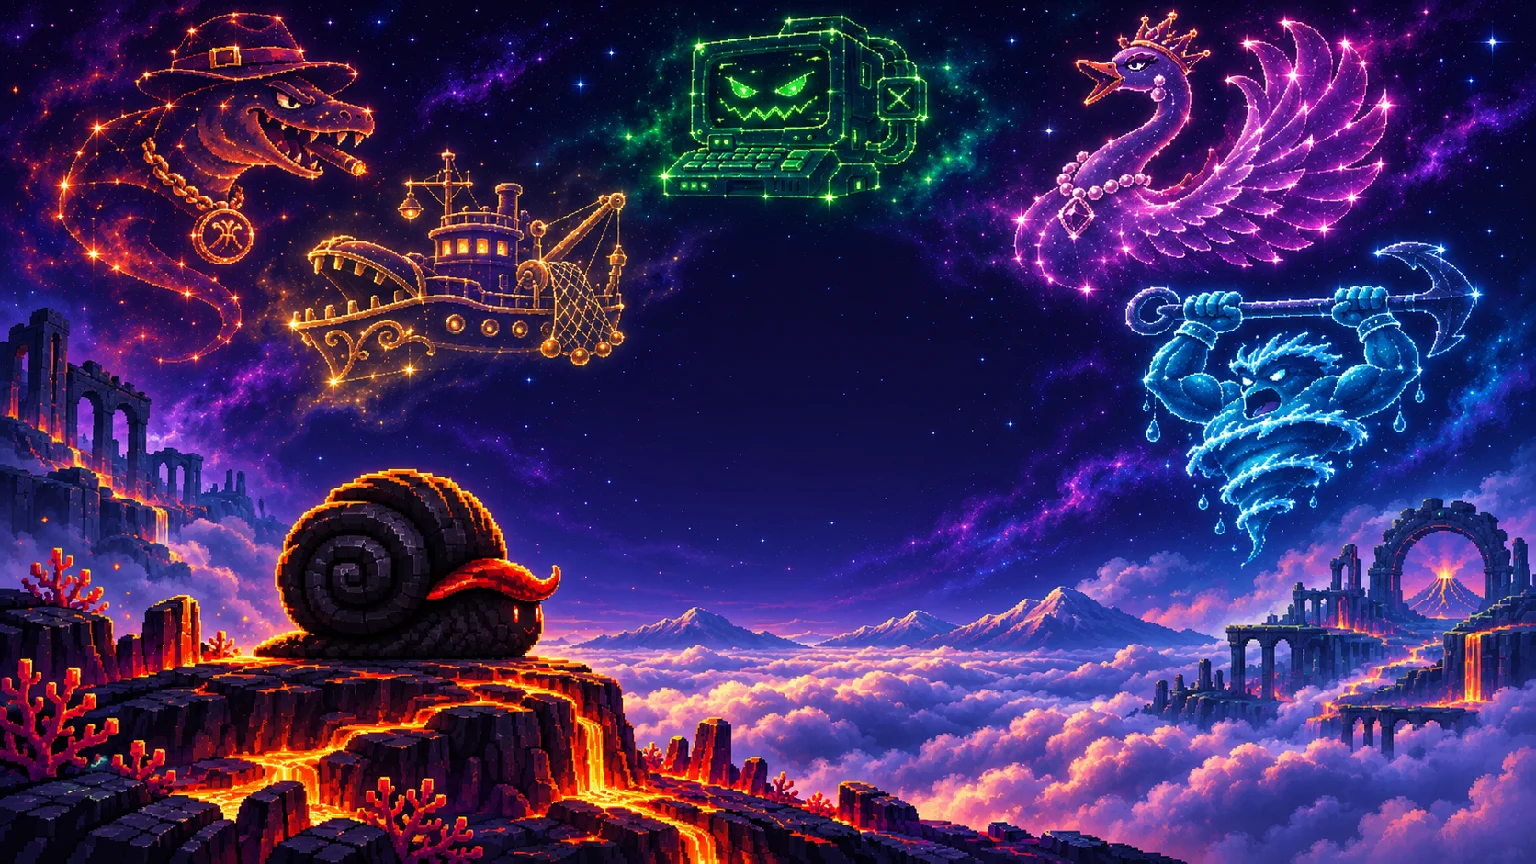
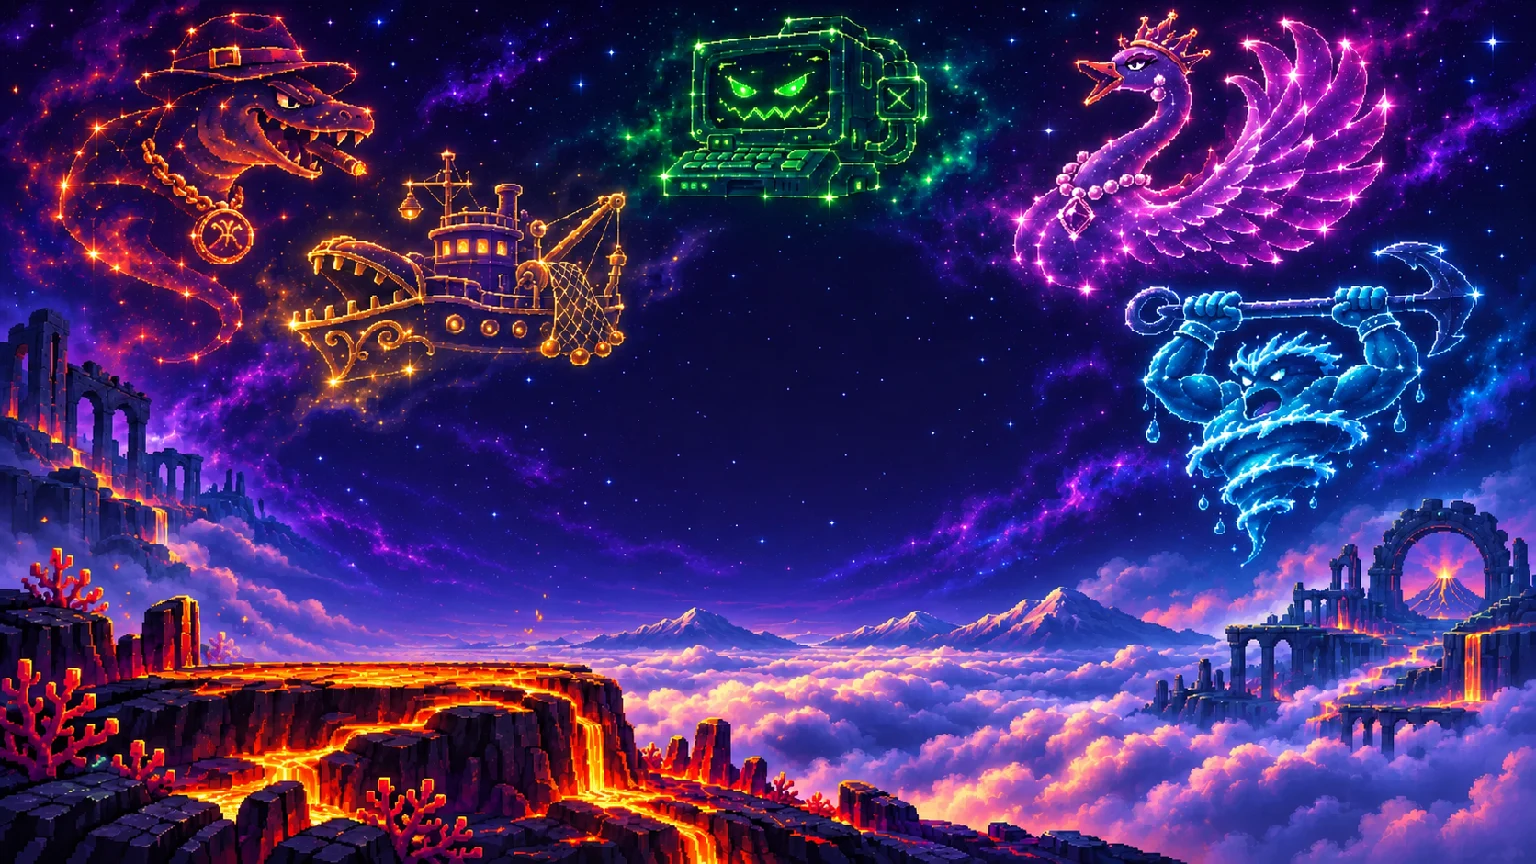
Gate title audio behind launch and use the original character sprite

diff --git a/v7-prototype/styles.css b/v7-prototype/styles.css
@@ -22,6 +22,23 @@ button:disabled { cursor: default; }
 button:focus-visible, input:focus-visible, [tabindex]:focus-visible { outline: 2px solid var(--gold); outline-offset: 3px; }
 .hidden { display: none !important; }
 .app { width: min(1160px, calc(100% - 36px)); margin: 0 auto; }
+.launch-screen {
+  position: fixed;
+  z-index: 4;
+  inset: 0;
+  width: 100%;
+  height: 100%;
+  display: grid;
+  place-items: center;
+  border: 0;
+  padding: 0;
+  background: #000;
+  color: #fff;
+  font: 900 clamp(48px, 15vw, 176px)/1 ui-monospace, monospace;
+  letter-spacing: .12em;
+  text-indent: .12em;
+  outline-offset: -8px;
+}
 .title-screen {
   --title-flight: 8s;
   position: fixed;
@@ -41,11 +58,22 @@ button:focus-visible, input:focus-visible, [tabindex]:focus-visible { outline: 2
   width: 100%;
   height: 100%;
 }
-.title-backdrop {
+.title-scene {
+  position: absolute;
   z-index: -2;
-  object-fit: contain;
-  object-position: center;
-  image-rendering: pixelated;
+  left: 50%;
+  top: 50%;
+  width: min(100vw, 177.778dvh);
+  aspect-ratio: 16 / 9;
+  transform: translate(-50%, -50%);
+}
+.title-backdrop, .title-character { image-rendering: pixelated; }
+.title-character {
+  position: absolute;
+  left: 16.6%;
+  top: 51.2%;
+  width: 20%;
+  height: auto;
 }
 .title-screen::after {
   z-index: -1;
@@ -115,11 +143,8 @@ button:focus-visible, input:focus-visible, [tabindex]:focus-visible { outline: 2
   to { opacity: 1; visibility: visible; }
 }
 @media (max-aspect-ratio: 4/3) {
-  .title-backdrop {
+  .title-scene {
     top: 51%;
-    bottom: auto;
-    height: auto;
-    transform: translateY(-50%);
     mask-image: linear-gradient(180deg, transparent, #000 9%, #000 92%, transparent);
   }
   .title-lockup { margin: 20dvh 0 0; width: min(93vw, 1000px); }

diff --git a/v7-prototype/js/main.js b/v7-prototype/js/main.js
@@ -2,8 +2,7 @@
   'use strict';
   const V = window.VS7;
   const ui = V.ui;
-  const state = V.state = { mode: 'title', level: null, section: null, story: null, testMode: false };
-  V.audio.startMenu();
+  const state = V.state = { mode: 'launch', level: null, section: null, story: null, testMode: false };
   const step = V.rules.step;
   const updates = { travel: V.updateRunner, arcade: V.updateRunner, arena: V.updateArena, boss: V.updateCombat };
   const get = id => document.getElementById(id);
@@ -229,6 +228,15 @@
     if (!get('leaderboard-overlay').classList.contains('hidden')) ui.dialog(null);
     else if (state.mode === 'play' || state.mode === 'boss-intro' || state.mode === 'result' || state.mode === 'outro') showMap();
   };
+  get('launch-screen').addEventListener('click', event => {
+    if (state.mode !== 'launch') return;
+    state.mode = 'title';
+    V.audio.startMenu();
+    event.currentTarget.classList.add('hidden');
+    const title = get('title-screen');
+    title.classList.remove('hidden');
+    title.focus({ preventScroll: true });
+  });
   get('title-screen').addEventListener('click', event => {
     if (state.mode !== 'title') return;
     V.audio.startMenu();

diff --git a/v7-prototype/index.html b/v7-prototype/index.html
@@ -9,8 +9,12 @@
 </head>
 <body>
   <main class="app">
-    <section id="title-screen" class="title-screen" aria-labelledby="title-logo">
-      <img class="title-backdrop" src="assets/images/intro/constellations.webp" alt="" fetchpriority="high">
+    <button id="launch-screen" class="launch-screen" type="button">LAUNCH</button>
+    <section id="title-screen" class="title-screen hidden" aria-labelledby="title-logo" tabindex="-1">
+      <div class="title-scene" aria-hidden="true">
+        <img class="title-backdrop" src="assets/images/intro/constellations.webp" alt="" fetchpriority="high">
+        <img class="title-character" src="assets/images/snail.png" alt="">
+      </div>
       <div class="title-lockup">
         <h1 id="title-logo"><img src="assets/images/intro/logo.png" alt="VULKANSCHNEGGE"></h1>
         <p>THE GREAT UPDATE <span>·</span> 7.0</p>

diff --git a/v7-prototype/README.md b/v7-prototype/README.md
@@ -4,7 +4,7 @@ Entpacke die ZIP und öffne `v7-prototype/index.html`. Der Offline-Build enthäl
 
 ## Spielen
 
-Beim Öffnen des Spiels sinkt der Pixel-Titel acht Sekunden lang vor Schnegg und den fünf Götter-Sternbildern ins Bild. Ein Klick oder Tipp aufs Titelbild beschleunigt den Flug. Sobald der Titel angekommen ist, erscheint **Start** und führt direkt zur Weltkarte. „Home, At Last“ startet sofort, sofern der Browser Autoplay erlaubt. Sonst startet das Lied beim ersten Klick oder Tipp. Beim Wechsel zur Karte läuft es an derselben Stelle weiter. Der Prolog beginnt vor der ersten Reise.
+Beim Öffnen des Spiels erscheint **LAUNCH** auf schwarzem Grund. Ein Klick oder Tipp startet „Home, At Last“ und das Titelbild. Der Pixel-Titel sinkt acht Sekunden lang vor Schnegg und den fünf Götter-Sternbildern ins Bild. Ein weiterer Klick oder Tipp beschleunigt den Flug. Sobald der Titel angekommen ist, erscheint **Start** und führt direkt zur Weltkarte. Die Musik läuft dabei an derselben Stelle weiter. Der Prolog beginnt vor der ersten Reise.
 
 - Das Hauptmenü führt zur Weltkarte, zum Endlos-Modus und zum Schneggboard. Im Atlas folgen die illustrierten Biome der Reihenfolge des Seeds. Der Riss erscheint mit dem passenden Story-Kapitel.
 - Sieben Pixelart-Bilder erzählen Schneggs Geschichte von der Heimatbucht bis zum Abspann. Das Perk-Menü hat ein eigenes Bild.
